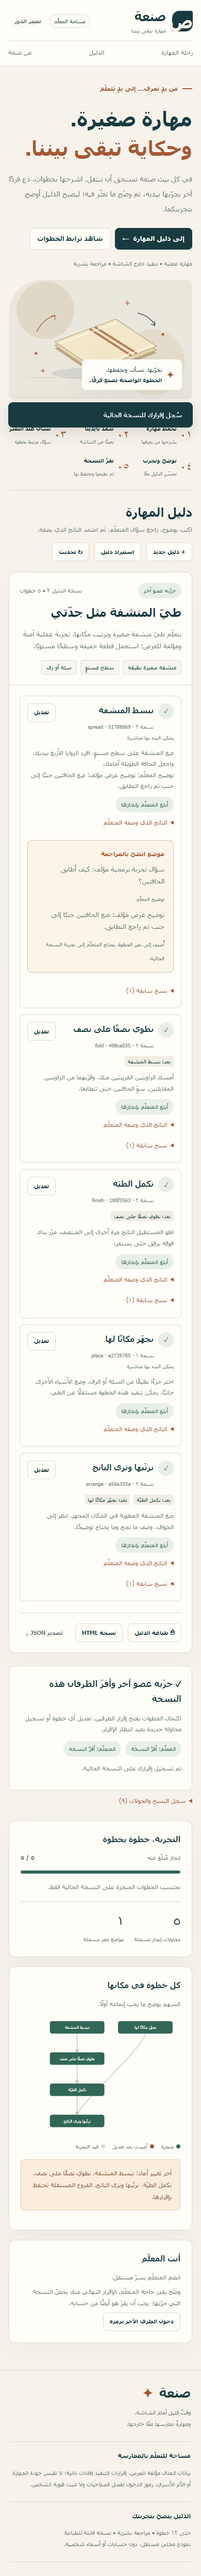
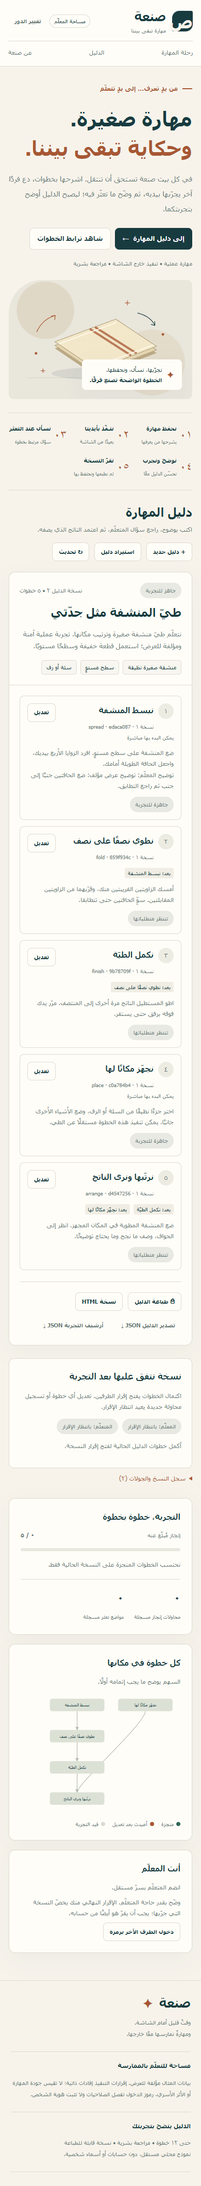
Close review findings and refresh Arabic delivery evidence

diff --git a/README.md b/README.md
@@ -4,6 +4,16 @@
 
 النموذج جاهز للعرض المحلي. مثال «طيّ المنشفة مثل جدتي» مؤلف؛ لا أسماء أشخاص أو تجارب ميدانية أو نسب تحسن. الاستخدام العملي لا يحتاج ذكاءً اصطناعيًا.
 
+## المشكلة والتقييم والاستدامة المقترحة
+
+يصف دليل الجائزة (ص18) تراجع الحوار بسبب الانشغال الرقمي أثناء الأوقات المشتركة. يقترح مشروع صنعة مهارة بسيطة تشرحها الأسرة ويجربها فرد آخر، مثل طي المنشفة، لتوفير سبب عملي لطلب التوضيح والعمل معًا. هذه فرضية لتحفيز الحوار تحتاج تجربة؛ لا يقيم المشروع جودة العلاقة ولا يعالج نزاعًا أسريًا.
+
+المستهدف: عدد الأدلة التي جربها فرد آخر وأقرها الطرفان، وعدد مرات التعثر التي أعقبها توضيح ومحاولة، ودقائق العمل خارج الشاشة بإقرار الطرفين. تقارن تجربة لاحقة بدليل مكتوب، وتدرس المشاركة والإصغاء منفصلين عن اكتمال الخطوات. لا تجربة أسرية فعلية أو تحسن حوار مقاس.
+
+استدامة مقترحة: دليل قابل للطباعة والاستخدام خارج الشاشة، ونسخة مختصرة لإعادة الاستخدام وأرشيف تجربة مستقل. الصيانة من مستودع موثق دون API إلزامي. التوسع يتبع تجربة مهارات آمنة وعبء التوثيق؛ لا تمويل سابق.
+
+الواجهة عربية RTL وفُحص عرض 390 بكسل. دعم لوحة المفاتيح وقارئ الشاشة يحتاج تقييمًا إضافيًا؛ لا ادعاء توافق معياري.
+
 ## التشغيل
 
 يلزم Node.js 22 أو أحدث وnpm المصاحب له. لا حزم خارجية ولا خطوة `npm install`.
@@ -37,13 +47,13 @@ npm start
 5. سجّل تعثرًا في الطيّ مثل «كيف أطابق الحافتين؟». يوضح المعلّم الحركة من حسابه. يضاف التوضيح إلى نسخة جديدة، ويعود المتعلّم لتجربتها. زر التحديث يجلب رد الطرف الآخر؛ لا إرسال بالنيابة عنه.
 6. أكمل الفرع المستقل «نجهز مكانًا لها»، وبقية الخطوات. كل طرف يقر النسخة من حسابه بعد اكتمال الخطوات. عندها يظهر «جرّبه عضو آخر وأقرّ الطرفان هذه النسخة» بمعنى إفادتين من دورين مستقلين، وليس تحققًا من هوية بشرية.
 7. عدّل نص الطيّ من حساب المعلّم: إقرارات الطي وإكماله والترتيب تُعاد، بينما تبقى إقرارات البسط وتجهيز المكان. الرسم وسجل النسخ يوضحان الأثر. إقرار النسخة النهائي يعود للانتظار.
-8. اطبع الدليل أو نزّل HTML مستقلًا أو صدّر JSON. الاستيراد يمحو الثقة في الإقرارات المنقولة، ويبدأ مراجعة وتجربة جديدتين.
+8. اطبع الدليل أو نزّل HTML مستقلًا. «تصدير الدليل JSON» ينتج النسخة الحالية مختصرة لإعادة الاستخدام، دون تاريخ النسخ أو الإقرارات. «أرشيف التجربة JSON» يحفظ تاريخ النسخ والأحداث والإفادات في ملف مستقل. استيراد أي منهما يأخذ الدليل الحالي فقط ويبدأ مراجعة وتجربة جديدتين.
 
 ## آلية النسخ والاعتماد
 
 كل إنشاء أو استيراد يولّد هوية دليل عشوائية جديدة `instanceId` من الخادم، دون الثقة بمعرّف الملف المستورد. تدخل الهوية في بصمات جميع الخطوات وإقرار الدليل، فيرفض النظام إقرارات جولة سابقة حتى مع تطابق المحتوى. كل خطوة لها معرّف وتعليمات ومتطلبات ورقم نسخة وبصمة سياقية. البصمة تربط المحتوى ورقم النسخة ببصمات المتطلبات، لذلك يتغير سياق التوابع عند تغيير أصلها. إعادة النص إلى قيمته السابقة لا تعيد صلاحية إقرار قديم. تحفظ النسخ السابقة وأحداث الإنجاز الأصلية للتوثيق، ولا تحتسبها ضمن الحالة الحالية.
 
-المتعلم لا يستطيع تسجيل الإنجاز قبل متطلبات نسخها الحالية، ولا تسجيل خطوة معلقة على سؤال مفتوح. توضيح المعلّم لا يقر التنفيذ؛ يحتاج محاولة فعلية جديدة من المتعلّم. الإقرار النهائي يتطلب جميع الخطوات الحالية، ثم تأكيدين منفصلين على بصمة نسخة الدليل نفسها.
+المتعلم لا يستطيع تسجيل الإنجاز قبل متطلبات نسخها الحالية، ولا تسجيل خطوة معلقة على سؤال مفتوح. توضيح المعلّم لا يقر التنفيذ؛ يحتاج محاولة فعلية جديدة من المتعلّم. الإقرار النهائي يتطلب جميع الخطوات الحالية، ثم تأكيدين منفصلين على بصمة نسخة الدليل نفسها. اعتماد المعلم للدليل المستورد يتطلب بصمة المراجعة الحالية؛ إذا تغير الدليل في نافذة أخرى يُرفض الاعتماد القديم.
 
 حفظ كل عملية يجري على نسخة مرشحة من الحالة: تحقق → حفظ ملف مؤقت → استبدال الملف → نشر الحالة. إذا فشل الحفظ تبقى الحالة المنشورة السابقة سليمة، ويمكن أن تنجح كتابة لاحقة.
 
@@ -147,13 +157,13 @@ flowchart RTL
 
 ## التحقق والحدود
 
-`npm test` يشمل ١٨ اختبارًا: الدورات والمراجع وحد ١٢ خطوة، المتطلبات، الصلاحيات، النسخ، الفروع، إعادة إقرار تابع قديم، الدعوة المستقلة، انتهاء الرموز، الاستيراد، تصدير بلا أسرار، طباعة مرمزة، حفظ متعثر فعلي ثم كتابة ناجحة، وGemini المحاكى. يتضمن مرجع وصول مستقل ٦٤ رسمًا × ٤ تغييرات = ٢٥٦ مقارنة. خادم HTTP يعمل فعليًا داخل الاختبارات بمنفذ محلي عشوائي.
+`npm test` يشمل ٢٠ اختبارًا: الدورات والمراجع وحد ١٢ خطوة، المتطلبات، الصلاحيات، النسخ، الفروع، إعادة إقرار تابع قديم، الدعوة المستقلة، انتهاء الرموز، الاستيراد، تصدير بلا أسرار، طباعة مرمزة، حفظ متعثر فعلي ثم كتابة ناجحة، وGemini المحاكى. يتضمن مرجع وصول مستقل ٦٤ رسمًا × ٤ تغييرات = ٢٥٦ مقارنة. خادم HTTP يعمل فعليًا داخل الاختبارات بمنفذ محلي عشوائي.
 
 الأسرار المخزنة بصمات SHA-256 مع انتهاء ٣٠ يومًا؛ الرمز في جلسة التبويب فقط. الأفضل للمتعلّم اختيار عبارة طويلة يصعب تخمينها. لا استرجاع أو إعادة دعوة بعد الانضمام. الدعوة نفسها لا تمنع منشئ المساحة من فتحها أولًا؛ الحد التقني يمنع كشف سر اختاره متعلّم آخر أو استخدام حساب المعلّم لإقراره. لا تحقق هوية بشرية أو مقابلة حضورية أو دليل تلقائي على تنفيذ خارج الشاشة.
 
-الخادم يتحقق من الأصل والمضيف، يقيد الجسم بـ٦٤ كيلوبايت، ويمنع تشغيل النص كـHTML. طباعة HTML تتضمن التعليمات ومتطلباتها والنسخ والتوضيحات، دون رموز الدخول. لا أسماء أو بيانات اتصال أو تسجيل محتوى الملاحظات في console. هذا نموذج localhost؛ نشره للإنترنت يتطلب تصميم حسابات واسترجاع وتشفير نقل وحماية من التخمين ونسخ احتياطية وتحقق أوسع.
+الخادم يتحقق من الأصل والمضيف ويقيد جسم الطلب بـ256 KiB، ويمنع تشغيل النص كـHTML. يقرأ مستورد الواجهة ملفًا حتى 8 MiB، ثم يستخرج الدليل الحالي ويطبّع حقوله قبل إرساله، مستبعدًا تاريخ النسخ والإقرارات؛ لذلك يختلف حد قراءة الملف عن حد طلب الخادم. استخدم «تصدير الدليل JSON» لنسخة مختصرة قابلة للنقل، و«أرشيف التجربة JSON» لحفظ السجل. طباعة HTML تتضمن التعليمات ومتطلباتها والنسخ والتوضيحات، دون رموز الدخول. لا أسماء أو بيانات اتصال أو تسجيل محتوى الملاحظات في console. هذا نموذج localhost؛ نشره للإنترنت يتطلب تصميم حسابات واسترجاع وتشفير نقل وحماية من التخمين ونسخ احتياطية وتحقق أوسع.
 
-مقاييس المحاولات والتعثر إفادات مسجلة لا دليل جودة أو سلامة أو أثر أسري. لم نجمع مستخدمين أو نحسن الحوار بقياس ميداني. دراسة لاحقة تقارن قدرة المتعلّم على إعادة المهارة وسهولة الاستخدام بدليل في مستند مشترك، دون افتراض النتيجة.
+مقاييس المحاولات والتعثر إفادات مسجلة لا دليل جودة أو سلامة أو أثر أسري. التصدير المختصر عبر GET /api/export-guide يحوي حقول الدليل الحالي القابلة للاستيراد فقط؛ الأرشيف عبر GET /api/export يحوي الدليل وتاريخ نسخه وسجل التجربة، دون أسرار. لم نجمع مستخدمين أو نحسن الحوار بقياس ميداني. دراسة لاحقة تقارن قدرة المتعلّم على إعادة المهارة وسهولة الاستخدام بدليل في مستند مشترك، دون افتراض النتيجة.
 
 ## البدائل والفرق المحدود
 
@@ -173,4 +183,4 @@ flowchart RTL
 
 ![واجهة الجوال](docs/screenshots/final-mobile.png)
 
-تحقق المنسق من 18 اختبارًا ناجحًا دون احتساب نسخ dist، ومن رحلة المتصفح والتصدير والعرض بعرض 390px دون أخطاء JavaScript أو تجاوز أفقي. الأدلة في `docs/coordinator-final-tests.txt` و`docs/coordinator-browser-qa.json`. حالات التجربة مؤلفة ولا تمثل أثرًا اجتماعيًا مقاسًا.
+تحقق المنسق من 20 اختبارًا ناجحًا دون احتساب نسخ dist، ومن رحلة المتصفح والتصدير والعرض بعرض 390px دون أخطاء JavaScript أو تجاوز أفقي. الأدلة في `docs/coordinator-final-tests.txt` و`docs/coordinator-browser-qa.json`. حالات التجربة مؤلفة ولا تمثل أثرًا اجتماعيًا مقاسًا.

diff --git a/docs/implementation-report.md b/docs/implementation-report.md
@@ -4,7 +4,7 @@
 
 ## ما نُفّذ
 
-موقع عربي RTL متجاوب بألوان الحبر والنحاس والورق، يستخدم HTTP من Node ووحدات JavaScript أصلية دون حزم تشغيل. رحلة كاملة لمعلّم ومتعلّم مستقلين: إنشاء دليل، أدوات وخطوات ومتطلبات، تنفيذ خطوة واحدة خارج الشاشة، وصف الناتج، سؤال تعثر، توضيح بشرى، تجربة نسخة جديدة، إقراران لنسخة الدليل وطباعة وتصدير واستيراد.
+موقع عربي RTL متجاوب بألوان الحبر والنحاس والورق، يستخدم HTTP من Node ووحدات JavaScript أصلية دون حزم تشغيل. رحلة كاملة لمعلّم ومتعلّم مستقلين: إنشاء دليل، أدوات وخطوات ومتطلبات، تنفيذ خطوة واحدة خارج الشاشة، وصف الناتج، سؤال تعثر، توضيح بشري، تجربة نسخة جديدة، إقراران لنسخة الدليل وطباعة وتصدير واستيراد.
 
 الواجهة تقدم مثال طي منشفة مؤلفًا، رسم SVG حيًا للمتطلبات، أثر آخر تعديل، سجل نسخ، ومؤشرات محاولات وتعثر مُبلّغ عنها. التصدير لا يتضمن أسرار الدخول. الاستيراد يبني نسخًا محلية جديدة ويزيل الثقة في إقرارات الملف، ويبقى بانتظار مراجعة المعلّم.
 
@@ -15,13 +15,13 @@
 - خادم يرفض إنجازًا قبل المتطلبات أو أثناء تعثر مفتوح أو من الدور الخطأ. توضيح المعلّم يحتاج تجربة جديدة من المتعلّم. اكتمال الدليل يحتاج إقرارين بالدورين لنسخة واحدة.
 - تهيئة تعرض رمز المعلّم ودعوة أحادية فقط؛ المتعلّم يختار سره مستقلًا من ١٢ حرفًا على الأقل. لا كشف أو استرجاع سره من حساب المعلّم ولا إعادة دعوة بعد الانضمام. رموز منتهية، وتخزين بصمات فقط.
 - كل mutation معاملة متسلسلة على نسخة مرشحة، حفظها قبل نشرها. فشل الكتابة لا يغير الحالة العامة، ولا يسمم طابور الحفظ التالي.
-- ربط 127.0.0.1، تحقق مضيف وأصل، جسم حتى ٦٤ كيلوبايت، CSP، ترميز نصوص الواجهة والطباعة، وعدم تسجيل الأسرار أو المحتوى في السجلات.
+- ربط 127.0.0.1، تحقق مضيف وأصل، جسم حتى ٢٥٦ كيلوبايت، CSP، ترميز نصوص الواجهة والطباعة، وعدم تسجيل الأسرار أو المحتوى في السجلات.
 
 ## الاختبارات الفعلية
 
 المراحل الحمراء محفوظة في `docs/evidence/`: قبل المحرك، قبل HTTP، قبل انضمام المتعلّم المستقل، ثم تراجعات النسخ والحفظ. الاختبارات الأولى شاهدت غياب التنفيذ. تراجعا Astra شاهدَا خطأ فعليًا: قبول إقرار تابع قديم، ونشر تعديل رغم فشل حفظه.
 
-النسخة الحالية: **١٨ اختبارًا ناجحًا، صفر فشل، صفر تخطي** عبر `node --test`. الاختبارات الأساسية تشمل ٢٥٦ مقارنة مع مرجع وصول مستقل (٦٤ DAG × ٤ تعديلات)، كما تشمل HTTP حقيقيًا على loopback، إعادة التحميل من الملف، طلبات مزورة وأصول خاطئة وجسمًا زائدًا، طباعة XSS مرمزة، وانضمام الدعوة مرة واحدة.
+النسخة الحالية: **٢٠ اختبارًا ناجحًا، صفر فشل، صفر تخطي** عبر `node --test`. الاختبارات الأساسية تشمل ٢٥٦ مقارنة مع مرجع وصول مستقل (٦٤ DAG × ٤ تعديلات)، كما تشمل HTTP حقيقيًا على loopback، إعادة التحميل من الملف، طلبات مزورة وأصول خاطئة وجسمًا زائدًا، طباعة XSS مرمزة، وانضمام الدعوة مرة واحدة.
 
 اختبار الحفظ حوّل مسار ملف الحالة في مجلد مؤقت إلى مجلد فعلي ليجبر الكتابة على الفشل؛ تحقق بقاء الحالة السابقة، ثم أعاد الملف وتحقق نجاح كتابة لاحقة وحفظها على القرص. لم يستخدم ادعاء نجاح من محاكاة store.
 
@@ -57,3 +57,9 @@ Gemini: adapter جاهز configurable، الافتراضي `gemini-3.5-flash-lit
 ## تحقق المتصفح لدى المنسق
 
 كشف اختبار المتصفح أن زر انضمام المتعلم لم يكن مربوطًا بفتح نموذج الدعوة. عولج الربط، ثم نجحت الرحلة: تهيئة، نافذة مستقلة للمتعلم وسر خاص، تعثر، توضيح المعلم، إفادات خطوات مؤلفة، إقراران، وتنزيل JSON وHTML للطباعة. هذه محاكاة أدوار برمجية؛ لم يجر شخص مهارة فعلية أو قياس علاقة أسرية. فُحص الهاتف بعرض390px دون تجاوز أفقي أو أخطاء JavaScript.
+
+## إعادة المراجعة النهائية — ٨ أكتوبر ٢٠٢٦
+
+تُربط مراجعة الدليل المستورد ببصمة النسخة التي فُتح لها الحوار؛ الاستبدال أو التعديل يرفض الاعتماد القديم بـ409. تصدير الدليل يحمل النص الحالي فقط لإعادة الاستخدام؛ أرشيف التجربة مستقل ويضم التاريخ والإفادات. الاستيراد يطبّع الحقول الحالية ويعيد الثقة إلى الصفر. حد قراءة الملف 8 ميغابايت وحد طلب الخادم 256 كيلوبايت؛ ملفات الدليل المسموحة تقع ضمنه.
+
+التحقق الحالي: **20 اختبار مصدر ناجحًا، صفر فشل**؛ السجل `docs/coordinator-final-tests.txt`، والبناء في `docs/coordinator-final-build.txt`. أرقام مراحل التنفيذ السابقة تاريخية؛ هذه الملفات هي مرجع النتيجة الحالية. فحوص المتصفح والصور النهائية في `docs/coordinator-browser-qa.json` و`docs/screenshots/final-*.png`. الاختبارات محاكاة بيانات وأدوار، دون مستخدمين حقيقيين أو قياس أثر اجتماعي أو اتصال Gemini حي.
